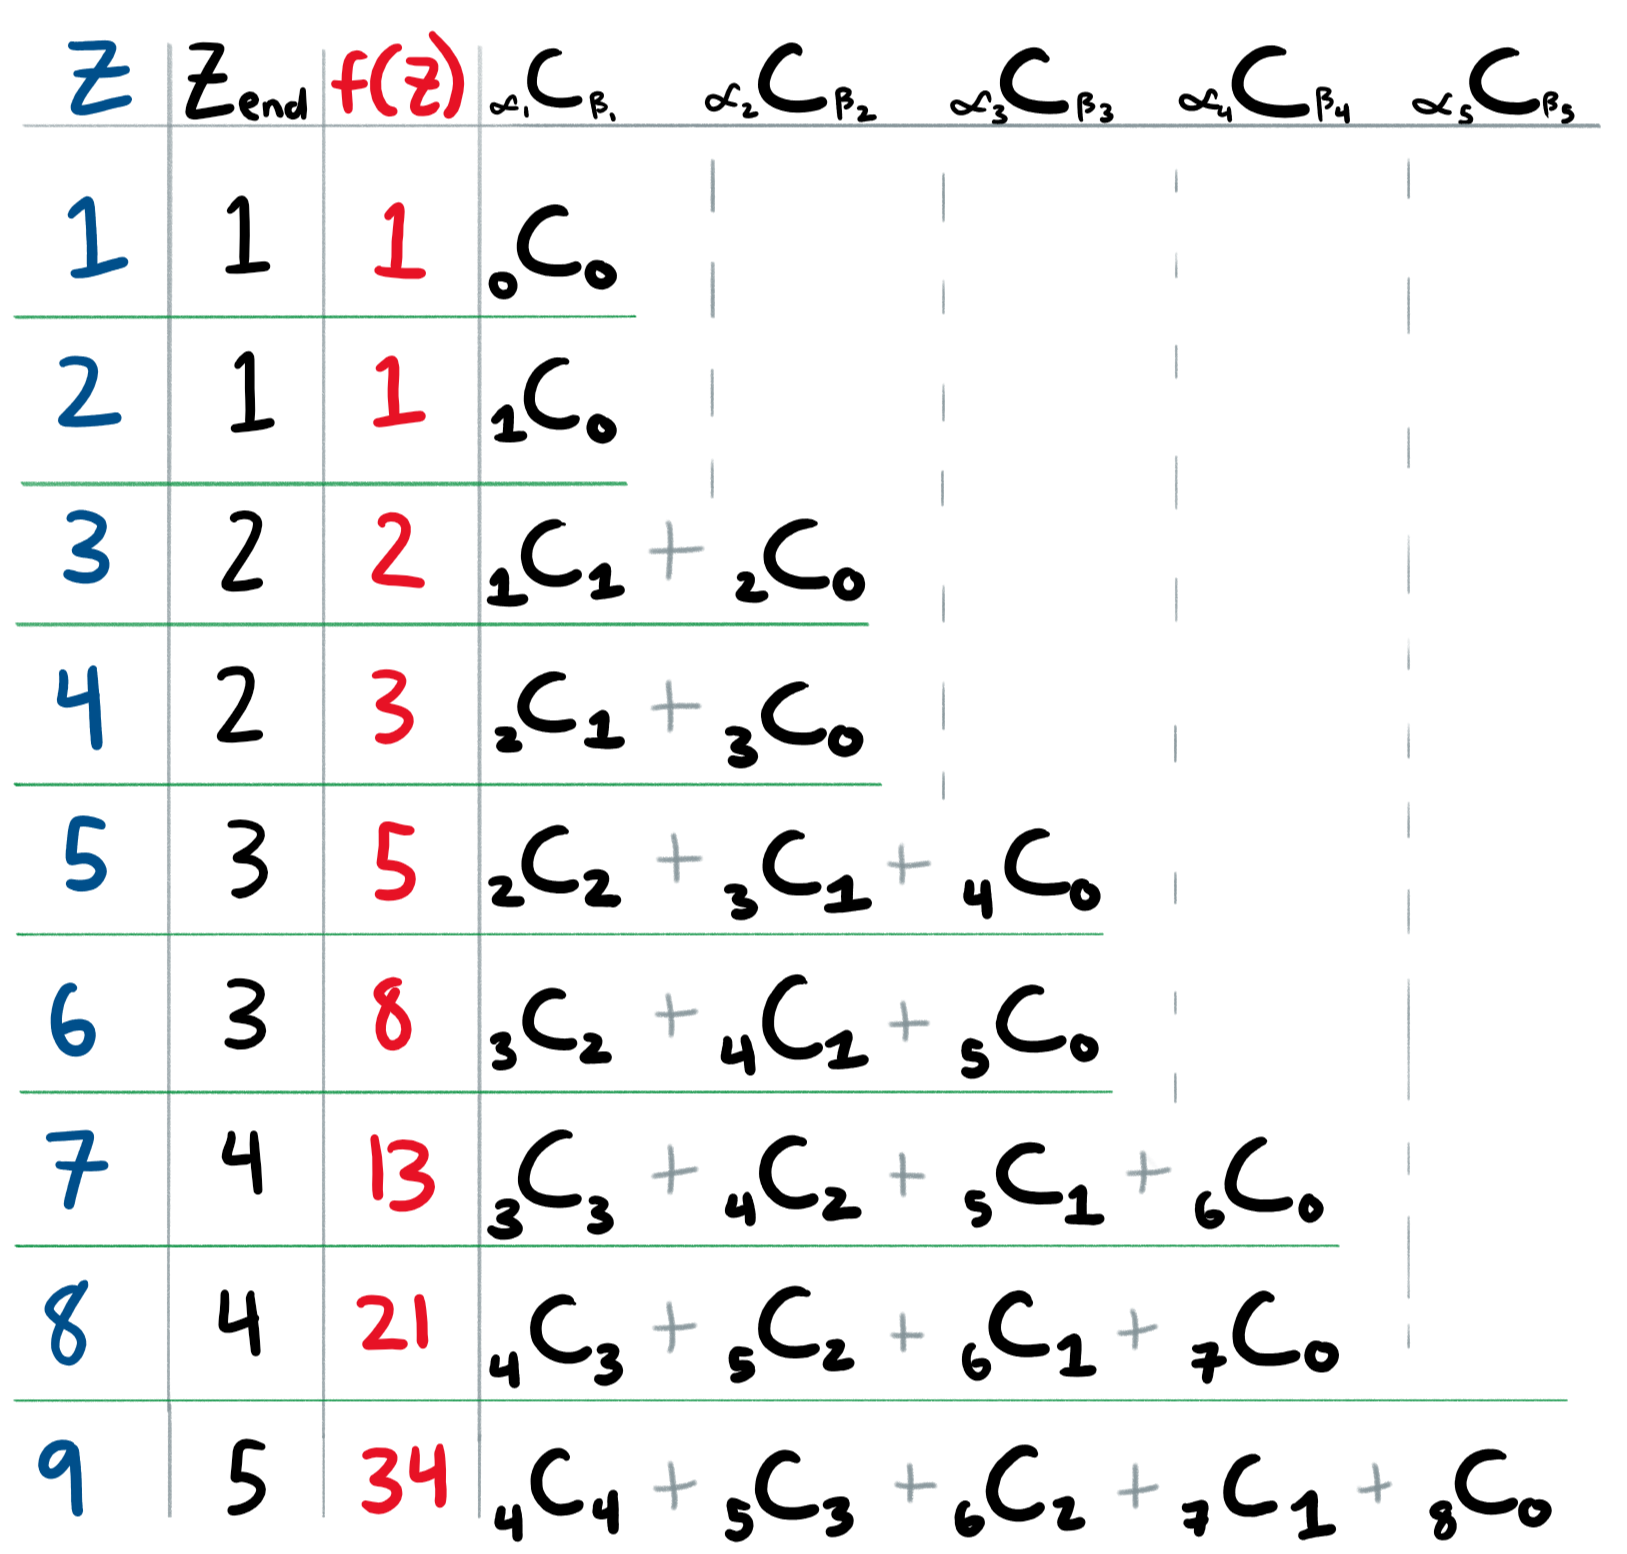
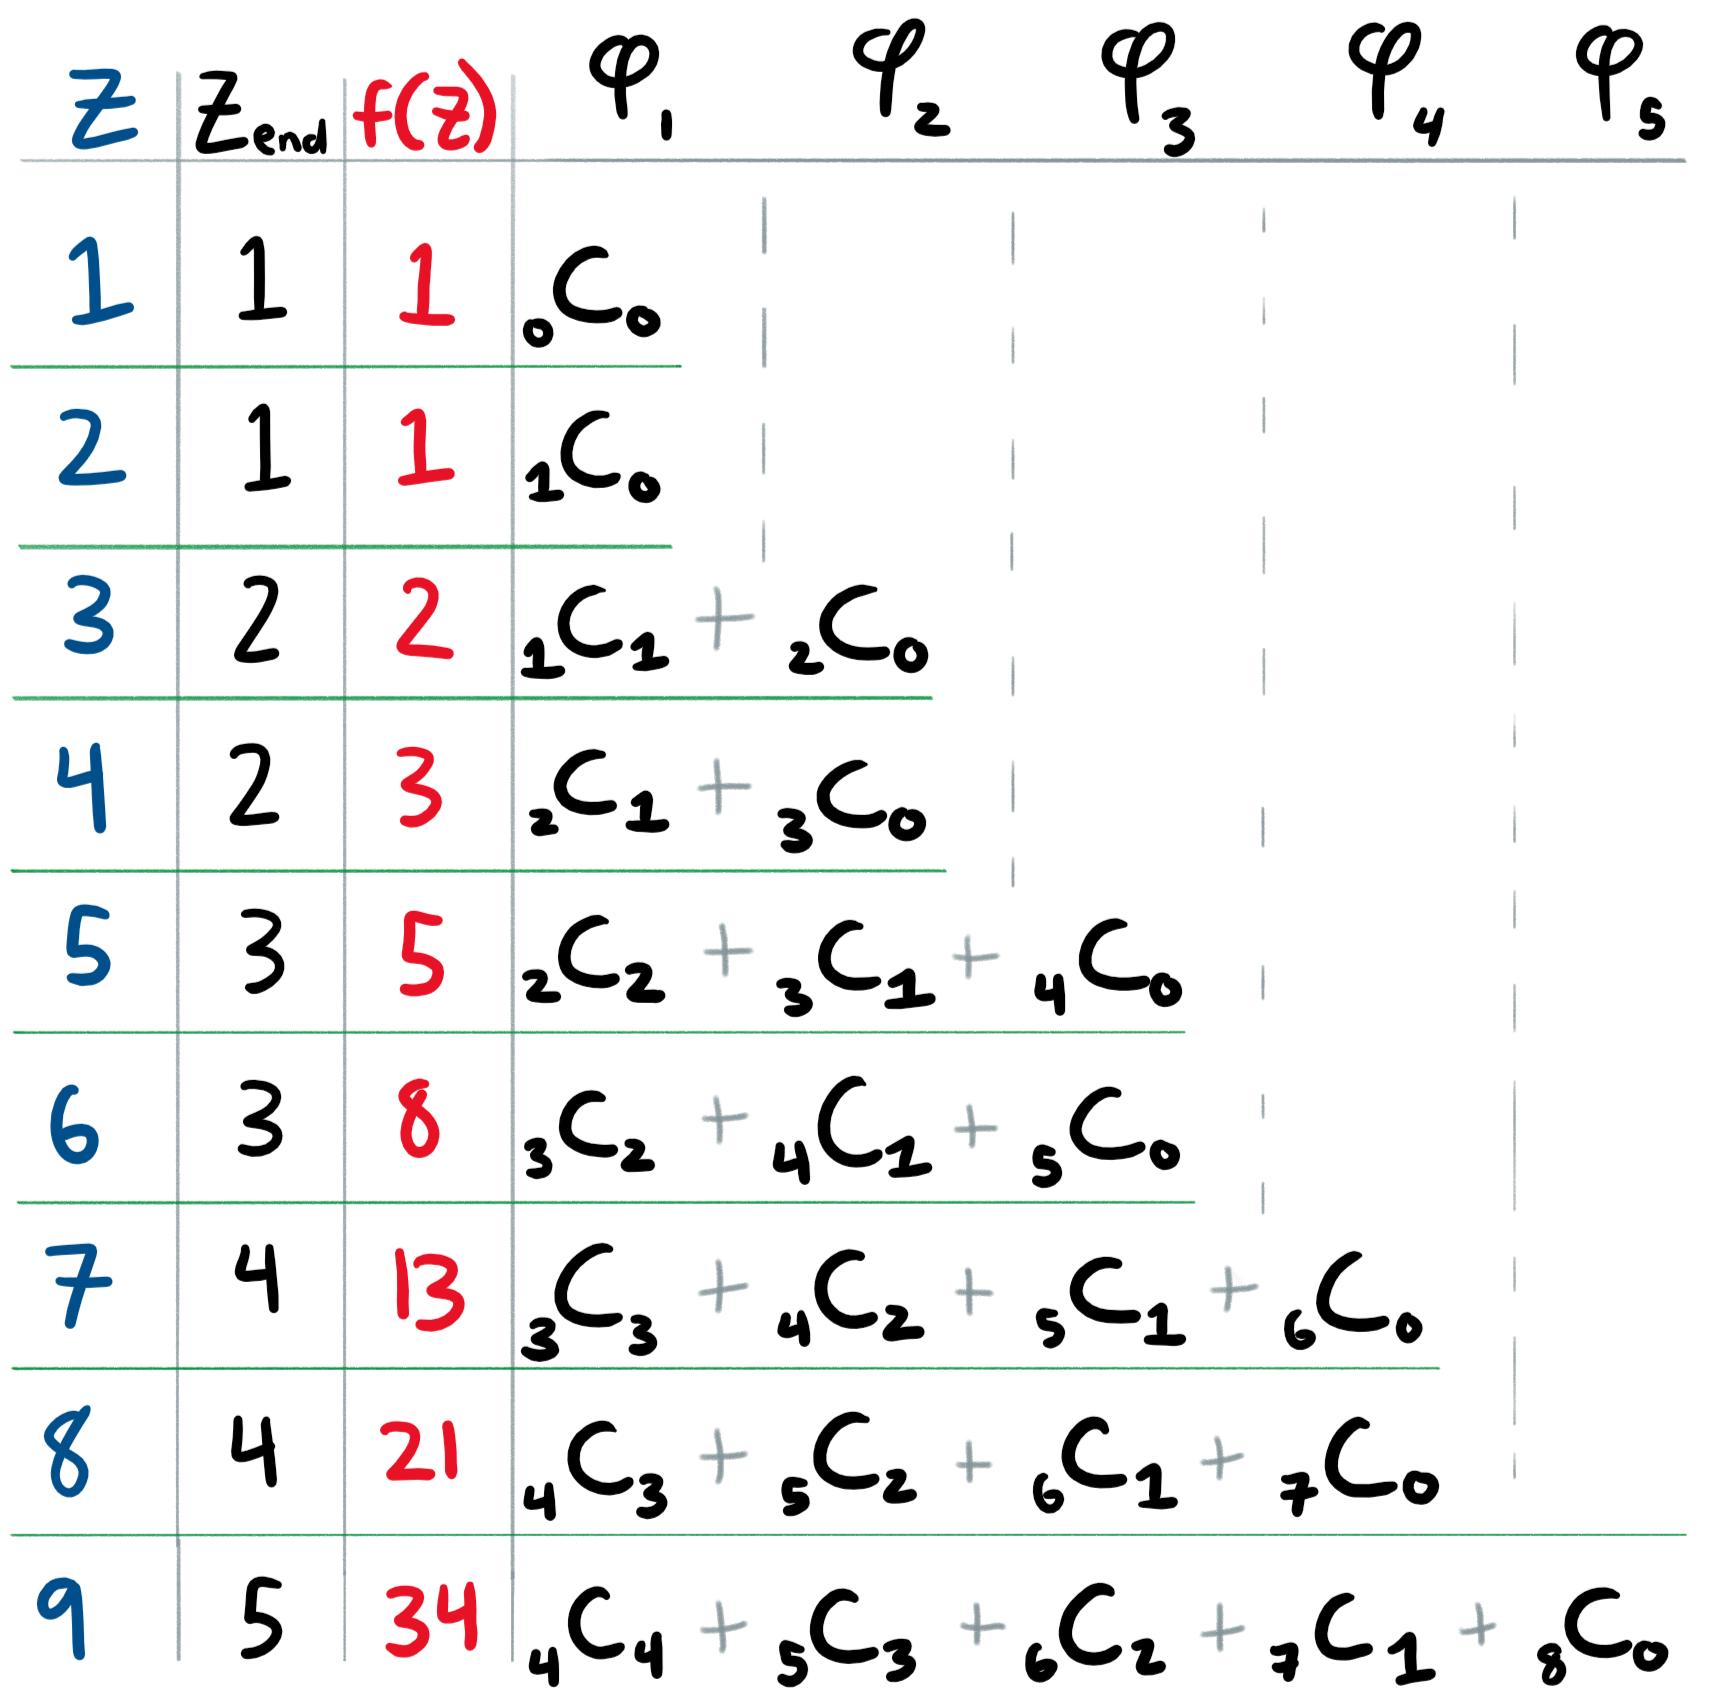
Finish part 2 of pascal-fibonacci post Also make minor changes to other posts, improve grammar, etc.

diff --git a/content/post/fibonacci pascal eqn part 1.md b/content/post/fibonacci pascal eqn part 1.md
@@ -10,8 +10,7 @@ katex = true
 draft = false
 +++
 
-If you're familiar with the intricacies of Pascal's Triangle, see how I did it by going to [part 2](../fibonacci-equation-using-pascals-triangle-part-2/). (Part 2 not complete yet)
-{{ .Title }}
+If you're familiar with the intricacies of Pascal's Triangle, see how I did it by going to [part 2](../fibonacci-equation-using-pascals-triangle-part-2/).
 
 ## Background of Pascal's Triangle
 A while back, I was reintroduced to Pascal's Triangle by my pre-calculus teacher. Pascal's triangle can be written as an infintely expanding triangle, with each term being generated as the sum of the two numbers adjacently above it. For example, both $$10$$s in the triangle below are the sum of $$6$$ and $$4$$. $$6$$ and $$4$$ are directly above each $$10$$.
@@ -43,9 +42,9 @@ $$\binom{3}{1} = 3\\[4px]$$
 $$\binom{3}{2} = 3\\[4px]$$
 $$\binom{3}{3} = 9\\[4px]$$
 
-And look at that! The sequence $$1\ 3\ 3\ 9$$ is on the $$3$$rd row of Pascal's triangle (starting from $$0$$).
+And look at that! The sequence $$1\ 3\ 3\ 9$$ is on the $$3$$rd row of Pascal's triangle (starting from the $$0$$th row).
 
-This binomial theorem relationship is typically discussed when bringing up Pascal's triangle in pre-calculus classes. You might want to be familiar with this to understand the fibonacci sequence relationship.
+This binomial theorem relationship is typically discussed when bringing up Pascal's triangle in pre-calculus classes. You might want to be familiar with this to understand the fibonacci sequence-pascal triangle relationship.
 
 ## Pascal's Triangle Representations
 Of course, it's not just one row that can be represented by a series of $$n$$ choose $$k$$ symbols. The whole triangle can. As you can see, the $$3$$rd row (starting from $$0$$) includes $$\binom{3}{0}\ \binom{3}{1}\ \binom{3}{2}\ \binom{3}{3}$$, the numbers we obtained from the binommial expansion earlier.
@@ -71,17 +70,17 @@ $$
 $$
 
 ## Relationship Between Pascal's Triangle and the Fibonacci Sequence
-What exactly is this relatiponship? First, draw diagonal lines intersecting various rows of the Fibonacci sequence. Then, add the terms up within each diagronal line to obtain the $$zth$$ element of the Fibonacci sequence.
+What exactly is this relatiponship? First, draw diagonal lines intersecting various rows of the Fibonacci sequence. Then, add the terms up within each diagronal line to obtain the $$z_{th}$$ element of the Fibonacci sequence.
 
 ![Pascal's Triangle](../image/pascals-triangle.png)
 
-The green lines represent the division between each term in the Fibonacci sequence and the red terms represent each $$zth$$ term, the sum of all black numbers sandwiched within the green borders. In this case, the green lines are initially at an angle of $$20\degree$$, and gradually become less steep as $$z$$ increases.
+The green lines represent the division between each term in the Fibonacci sequence and the red terms represent each $$z_{th}$$ term, the sum of all black numbers sandwiched within the green borders. In this case, the green lines are initially at an angle of $$\frac{\pi}{9}$$ radians, and gradually become less steep as $$z$$ increases.
 
-Like I said, I'm going to be using $$_nC_k$$ symbols to express relationships to Pascal's triangle, so here's the relationship expressed with different symbols.
+Like I said, I'm going to be using $$_nC_k$$ symbols to express relationships to Pascal's triangle, so here's the triangle expressed with different symbols.
 
 ![Pascal's Triangle](../image/pascals-triangle-2.png)
 
-We can write the first 5 equations.
+We can write the first 5 equations. We want to generate the $$_nC_r$$ terms using some formula. 
 
 $$z_1 = {_0C_0} = 1$$
 
@@ -95,6 +94,6 @@ $$z_5 = {_4C_0} + {_3C_1} + {_2C_2} = 5$$
 
 $$...$$
 
-Is it possible to succinctly write the $$z$$th term ($$Fib(z)$$, or $$F(z)$$) of the Fibonacci as a summation of $$_nC_k$$ Pascal's triangle terms? The number of terms being summed up depends on the $$z$$th term. Both $$n$$ and $$k$$ (within $$_nC_k$$) depend on $$z$$. See any patterns yet? Note that I'm using $$z$$th term rather than $$n$$th term because $$n$$ is already used when representing $$_nC_k$$. See if you can figure it out for yourself before continuing! If you're still in high school (Algebra 2 / Pre-Calculus), this may take more than a single night, but it's a fun challenge!
+Is it possible to succinctly write the $$z$$th term ($$Fib(z)$$, or $$F(z)$$) of the Fibonacci as a summation of $$_nC_k$$ Pascal's triangle terms? The number of terms being summed up depends on the $$z$$th term. Both $$n$$ and $$k$$ (within $$_nC_k$$) depend on the value of the summation index (I'll use $$\varphi$$). See any patterns yet? Note that I'm using $$z$$th term rather than $$n$$th term because $$n$$ is used when representing $$_nC_k$$. See if you can figure it out for yourself before continuing! If you're still in high school (Algebra 2 / Pre-Calculus), this may take more than a single night, but it's a fun challenge!
 
-Part 2 is not complete. When it's finished, find it [here](../fibonacci-equation-using-pascals-triangle-part-2/).
+See how I did it in [part 2](../fibonacci-equation-using-pascals-triangle-part-2/)!

diff --git a/content/post/fibonacci pascal eqn part 2.md b/content/post/fibonacci pascal eqn part 2.md
@@ -1,10 +1,10 @@
 +++
-title = "Fibonacci Equation for Nth Term Using Pascal's Triangle (Part 2 of 2)"
+title = "Fibonacci Equation for Zth (Nth) Term Using Pascal's Triangle (Part 2 of 2)"
 slug = "fibonacci-equation-using-pascals-triangle-part-2"
 author = "Edwin Kofler"
 date = 2018-12-04T22:39:42-08:00
-categories = []
-tags = []
+categories = ["Math"]
+tags = ["pascal's triangle", "fibonacci"]
 markup = "mmark"
 katex = true
 draft = true
@@ -20,31 +20,74 @@ So our final equation will look akin to this:
 
 $$\sum_{\varphi=1}^{z_{end}}{_n}C_k$$
 
-But this is not exactly right, since $$n$$ and $$r$$ are different for each $$z$$th term that's being added up. Therefore, we can more accurately write:
+But this is not exactly right, since $$n$$ and $$k$$ are different for each $$z$$th term that's being added up. Both will at least be dependent on the summation index, $$\varphi$$. Therefore, we can more accurately write:
 
 $$\sum_{\varphi=1}^{z_{end}}{_{n(\varphi)}}C_{k(\varphi)}$$
 
-Note that the summation is starting from $$1$$. Also, in this case for Pascal's triangle, $$z$$ starts at 1, so $$z_1 = 1$$ and $$z_2 = 1$$.
+Note that the summation index, $$\varphi$$ is starting from $$1$$. Also, I'm starting Pascal's triangle at 1. Since $$z$$ starts at 1, $$z_1 = 1$$ and $$z_2 = 1$$.
 
-I started by reorganizing all the $$_nC_r$$ terms into rows.
+I started by reorganizing all the $$_nC_r$$ terms from the triangle above into rows. I tried to color the table similarly to the triangle.
 
 ![Pascal's Triange Reordered](../image/pascals-triangle-3.png)
 
-One of the first and more obvious patterns is found in the $$Z_{end}$$ column. Rather than increasing by an increment of $$1$$ for every row as the $$Z$$ colum does, it increases by an increment of $$1$$ for every other row.
+One of the first and more obvious patterns is found in the $$z_{end}$$ column. Rather than increasing by an increment of $$1$$ for every row as the $$z$$ colum does, it increases by an increment of $$1$$ for every other row.
 
 This is an important pattern because it determines the number of terms being summed.
 
-$$Z_{end} = round(\frac{z}{2})$$
+$$z_{end} = round(\frac{z}{2})$$
 
 Now, we know we can better describe what the summation might look like
 
 $$f(z) = Fib(z) =\sum_{\varphi=1}^{round(\frac{z}{2})}{_{n(\varphi)}}C_{k(\varphi)}$$
 
 
-So for $$z = 4$$, $$Z_{end} = 2$$.
+So to find the $$4$$th term in the Fibonacci Sequence, or $$z = 4$$, we know $$z_{end} = 2$$, or $$2$$ terms will be summed.
 
-$$Fib(z) =\sum_{\varphi=1}^{2}{_{n(\varphi)}}C_{k(\varphi)} =\ _2C_1 +\ _3C_0$$
+$$Fib(4) =\sum_{\varphi=1}^{2}{_{n(\varphi)}}C_{k(\varphi)} =\ _2C_1 +\ _3C_0$$
 
 We only know that $$_2C_1$$ and $$_3C_0$$ are summed due to the table I wrote above. We don't know why $$n(1) = 2$$ or why $$k(2) = 0$$ yet.
 
-No other patterns from that grid really popped out at me. I did see general increment / decrement patterns of $$n(\varphi)$$ and $$k(\varphi)$$ while traversing along rows and columns, but I wasn't sure how to make then dependent on $$\varphi$$ or $$z$$. So I decided to change the structure of the grid. To make it easier to find patterns.
+There are a few other patterns held within the grid. I found it easier to find the pattern by changing which way the terms were summed. As you can see, I rearange the order of the $$_{n(\varphi)}C_{k(\varphi)}$$ terms, making the $$\varphi_1, \varphi_2, ...\ \varphi_{th}$$ terms somewhat arbitrary. 
+
+![Pascal's Triange Reordered](../image/pascals-triangle-4.png)
+
+Now, you can see a clearer pattern for the $$k(\varphi)$$ more easily, now that they're more aligned. It's value is one less than the current summation index value.
+
+$$k(\varphi) = \varphi - 1$$
+
+Now, we just have to determine $$n(\varphi)$$. It's slightly harder because it depends on the $$z_{th}$$ term and the $$\varphi$$th term. In other words, it depends on the $$z_{th}$$ term we're adding to in the Fibonacci sequence and the value of the summation index, $$\varphi$$.
+
+$$n(\varphi) = z - \varphi$$
+
+Now we have all of the missing parts! Putting it all together, we obtain
+
+$$F(z) = Fib(z) = \sum_{\varphi=1}^{z_{end} = round(\frac{z}{2})}{_{n(\varphi)\ =\ z - \varphi}}C_{k(\varphi)\ =\ \varphi - 1}$$
+
+Or, more succinctly
+
+$$F(z) = \sum_{\varphi=1}^{round(\frac{z}{2})}{_{z - \varphi}}C_{\varphi - 1}$$
+
+Does it work? Yes!
+
+Let $$z = 9$$. We obtain
+
+$$F(9) = \sum_{\varphi=1}^{5}{_{9 - \varphi}}C_{\varphi - 1}$$
+
+$$=\ _{9 - 1}C_{1 - 1} +
+   \ _{9 - 2}C_{2 - 1} +
+   \ _{9 - 3}C_{3 - 1} +
+   \ _{9 - 4}C_{4 - 1} +
+   \ _{9 - 5}C_{5 - 1} $$
+
+$$=\ _{8}C_{0} +
+\ _{7}C_{1} +
+\ _{6}C_{2} +
+\ _{5}C_{3} +
+\ _{4}C_{4} $$
+
+$$=\ 1 + 7 + 15 + 10 + 1$$
+
+$$=\ 34$$
+
+Did make a proof? No.
+Although I can't conclusively say so, I do believe this works for any $$n\ |\ n \in \mathbb{N}$$.

diff --git a/content/post/render latex with katex in hugo.md b/content/post/render latex with katex in hugo.md
@@ -10,12 +10,15 @@ katex = true
 draft = false
 +++
 
-Just recently, I added support to render LaTeX math equations with the rendering engine [KaTeX](https://katex.org/) for this blog. I chose it over MathJax because it performs [substantially faster](https://www.intmath.com/cg5/katex-mathjax-comparison.php) than MathJax. To integrate KaTeX in my Hugo blog, I had to use the [Mmark](https://github.com/mmarkdown/mmark) Markdown processor rather than Hugo's default [Blackfriday](https://github.com/russross/blackfriday) processor.
+Just recently, I added support to render LaTeX math equations with the rendering engine [KaTeX](https://katex.org/) for this blog. I chose it over MathJax because it performs [substantially faster](https://www.intmath.com/cg5/katex-mathjax-comparison.php). To integrate KaTeX in my Hugo blog, I used the [Mmark](https://github.com/mmarkdown/mmark) Markdown processor rather than Hugo's default [Blackfriday](https://github.com/russross/blackfriday) processor.
 
 There are three steps to follow so you can write LaTeX in markdown for KaTeX to use.
 1. Create a KateX partial
 2. Integrate the KateX partial in your header or footer element
 3. Activate the KaTeX partial in the markdown file
+
+What is a partial?
+[Hugo partials](https://gohugo.io/templates/partials/) are just single page templates. Think of them like `html` files that you can insert into any of your pages.
 
 ## Create a KaTex partial
 To get KaTex to work, you must import their JavaScript and CSS files. We're going to do this using Hugo partials. To do this, create a `katex.html` partial in your `layouts/partials` directory of your Hugo project. In this file, just import the [required files](https://katex.org/docs/browser.html).
